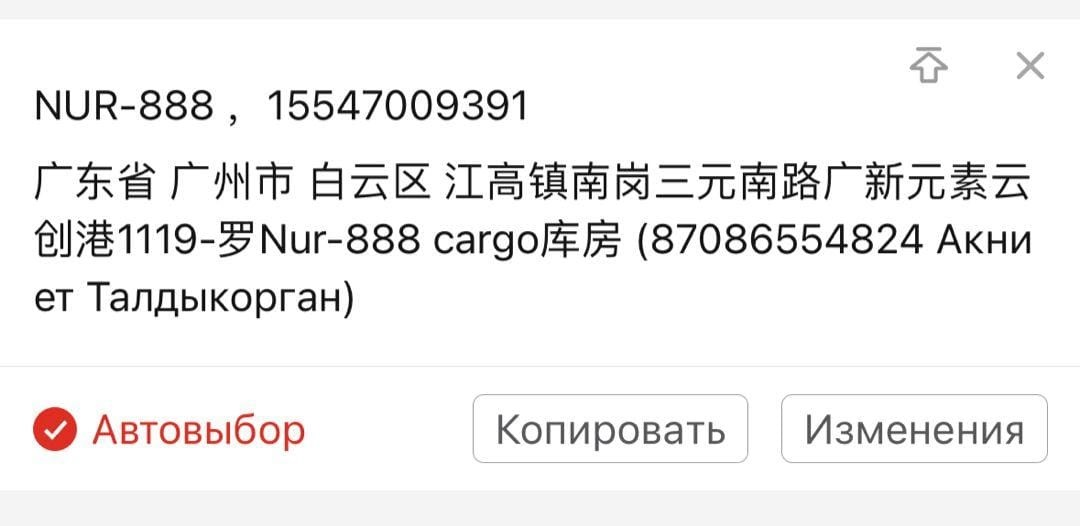
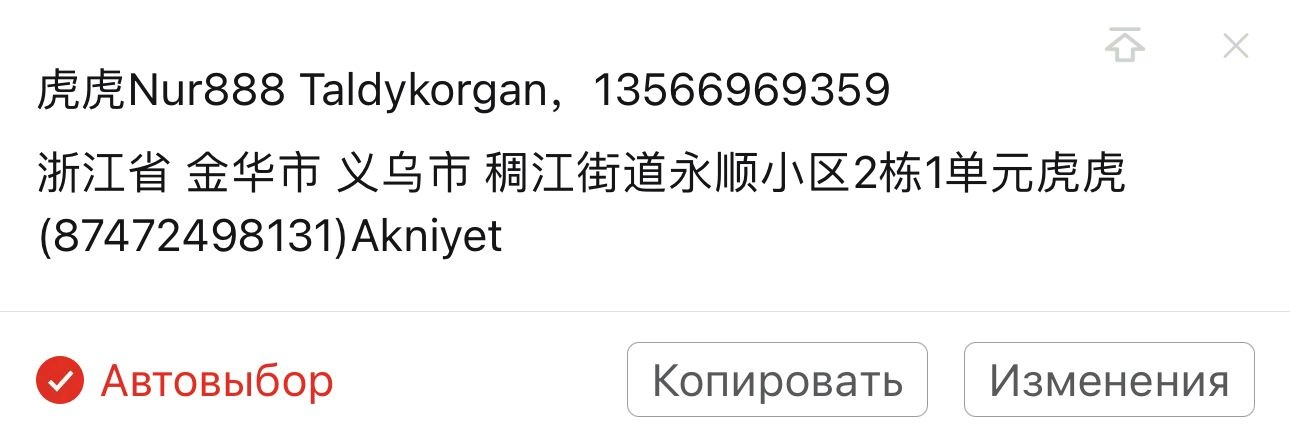
New china

diff --git a/resources/views/layouts/navigation.blade.php b/resources/views/layouts/navigation.blade.php
@@ -57,7 +57,7 @@
 
                         <div class="bg-[#fab4b4] p-2 mt-4 mb-4">
                             <p><span>Образец</span></p>
-                            <img src="{{asset('images/newchina.jpg')}}" alt="China">
+                            <img src="{{asset('images/china.jpg')}}" alt="China">
                         </div>
                         <hr class="h-px mb-4 bg-gray-200 border-0">
 
